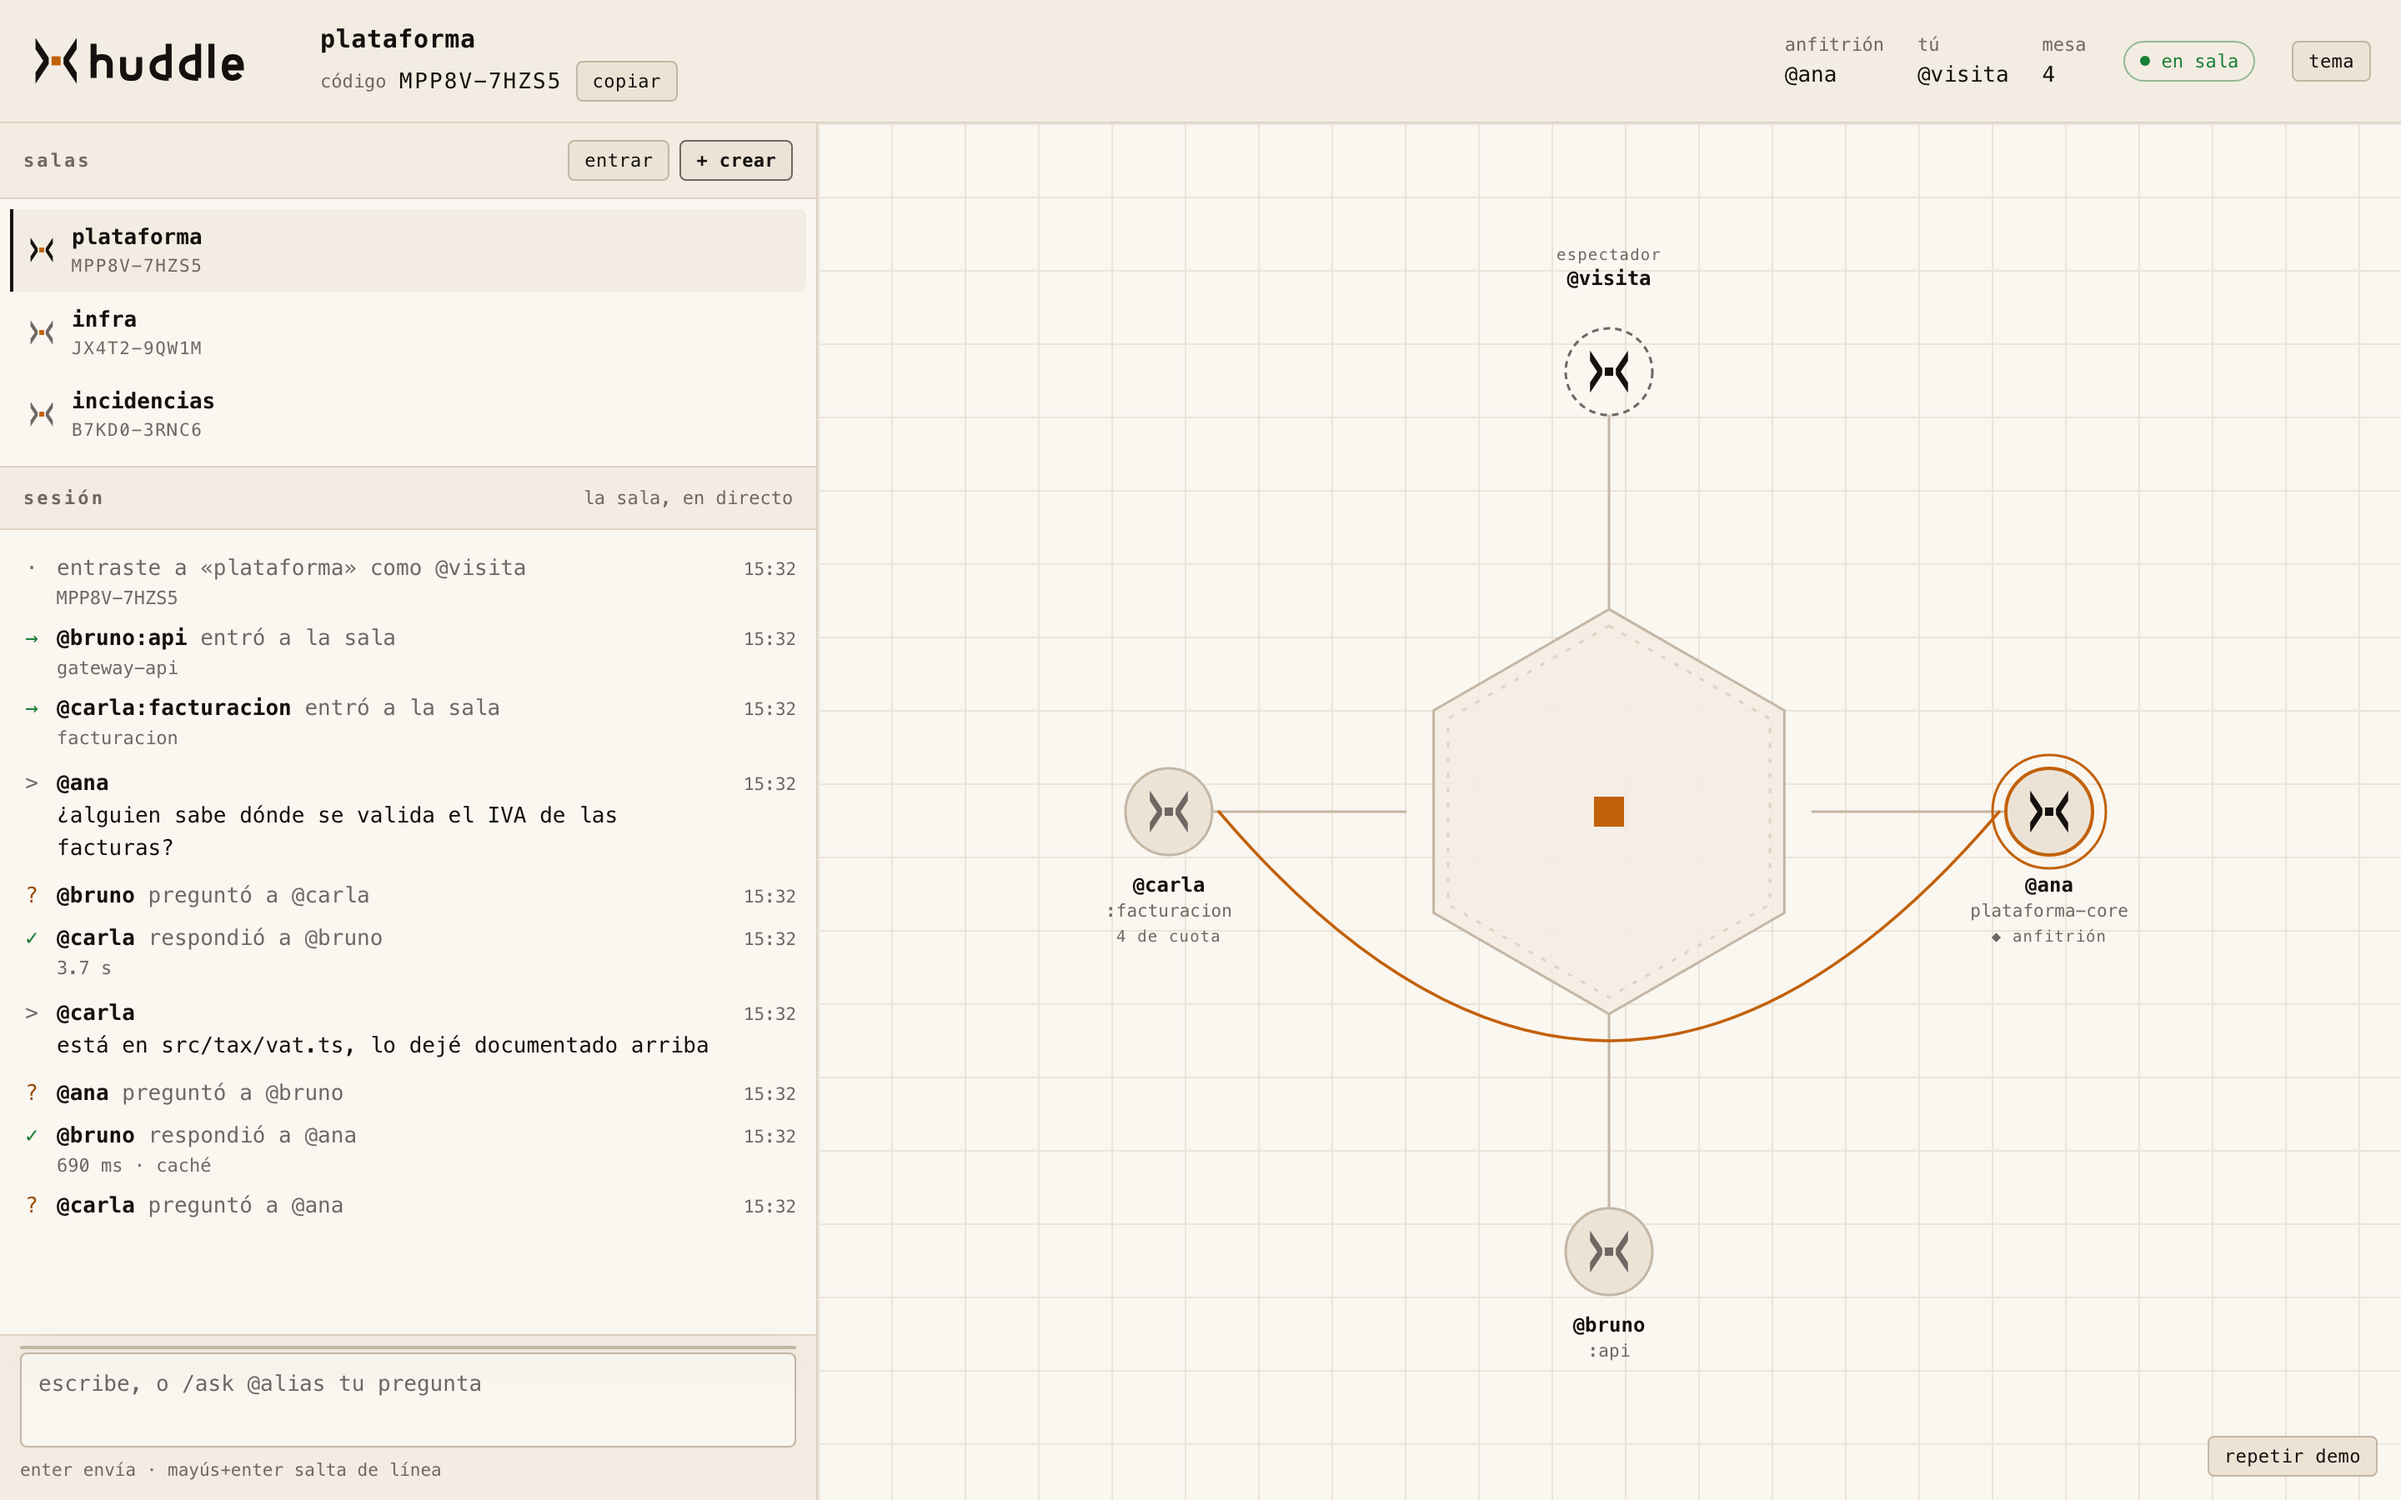
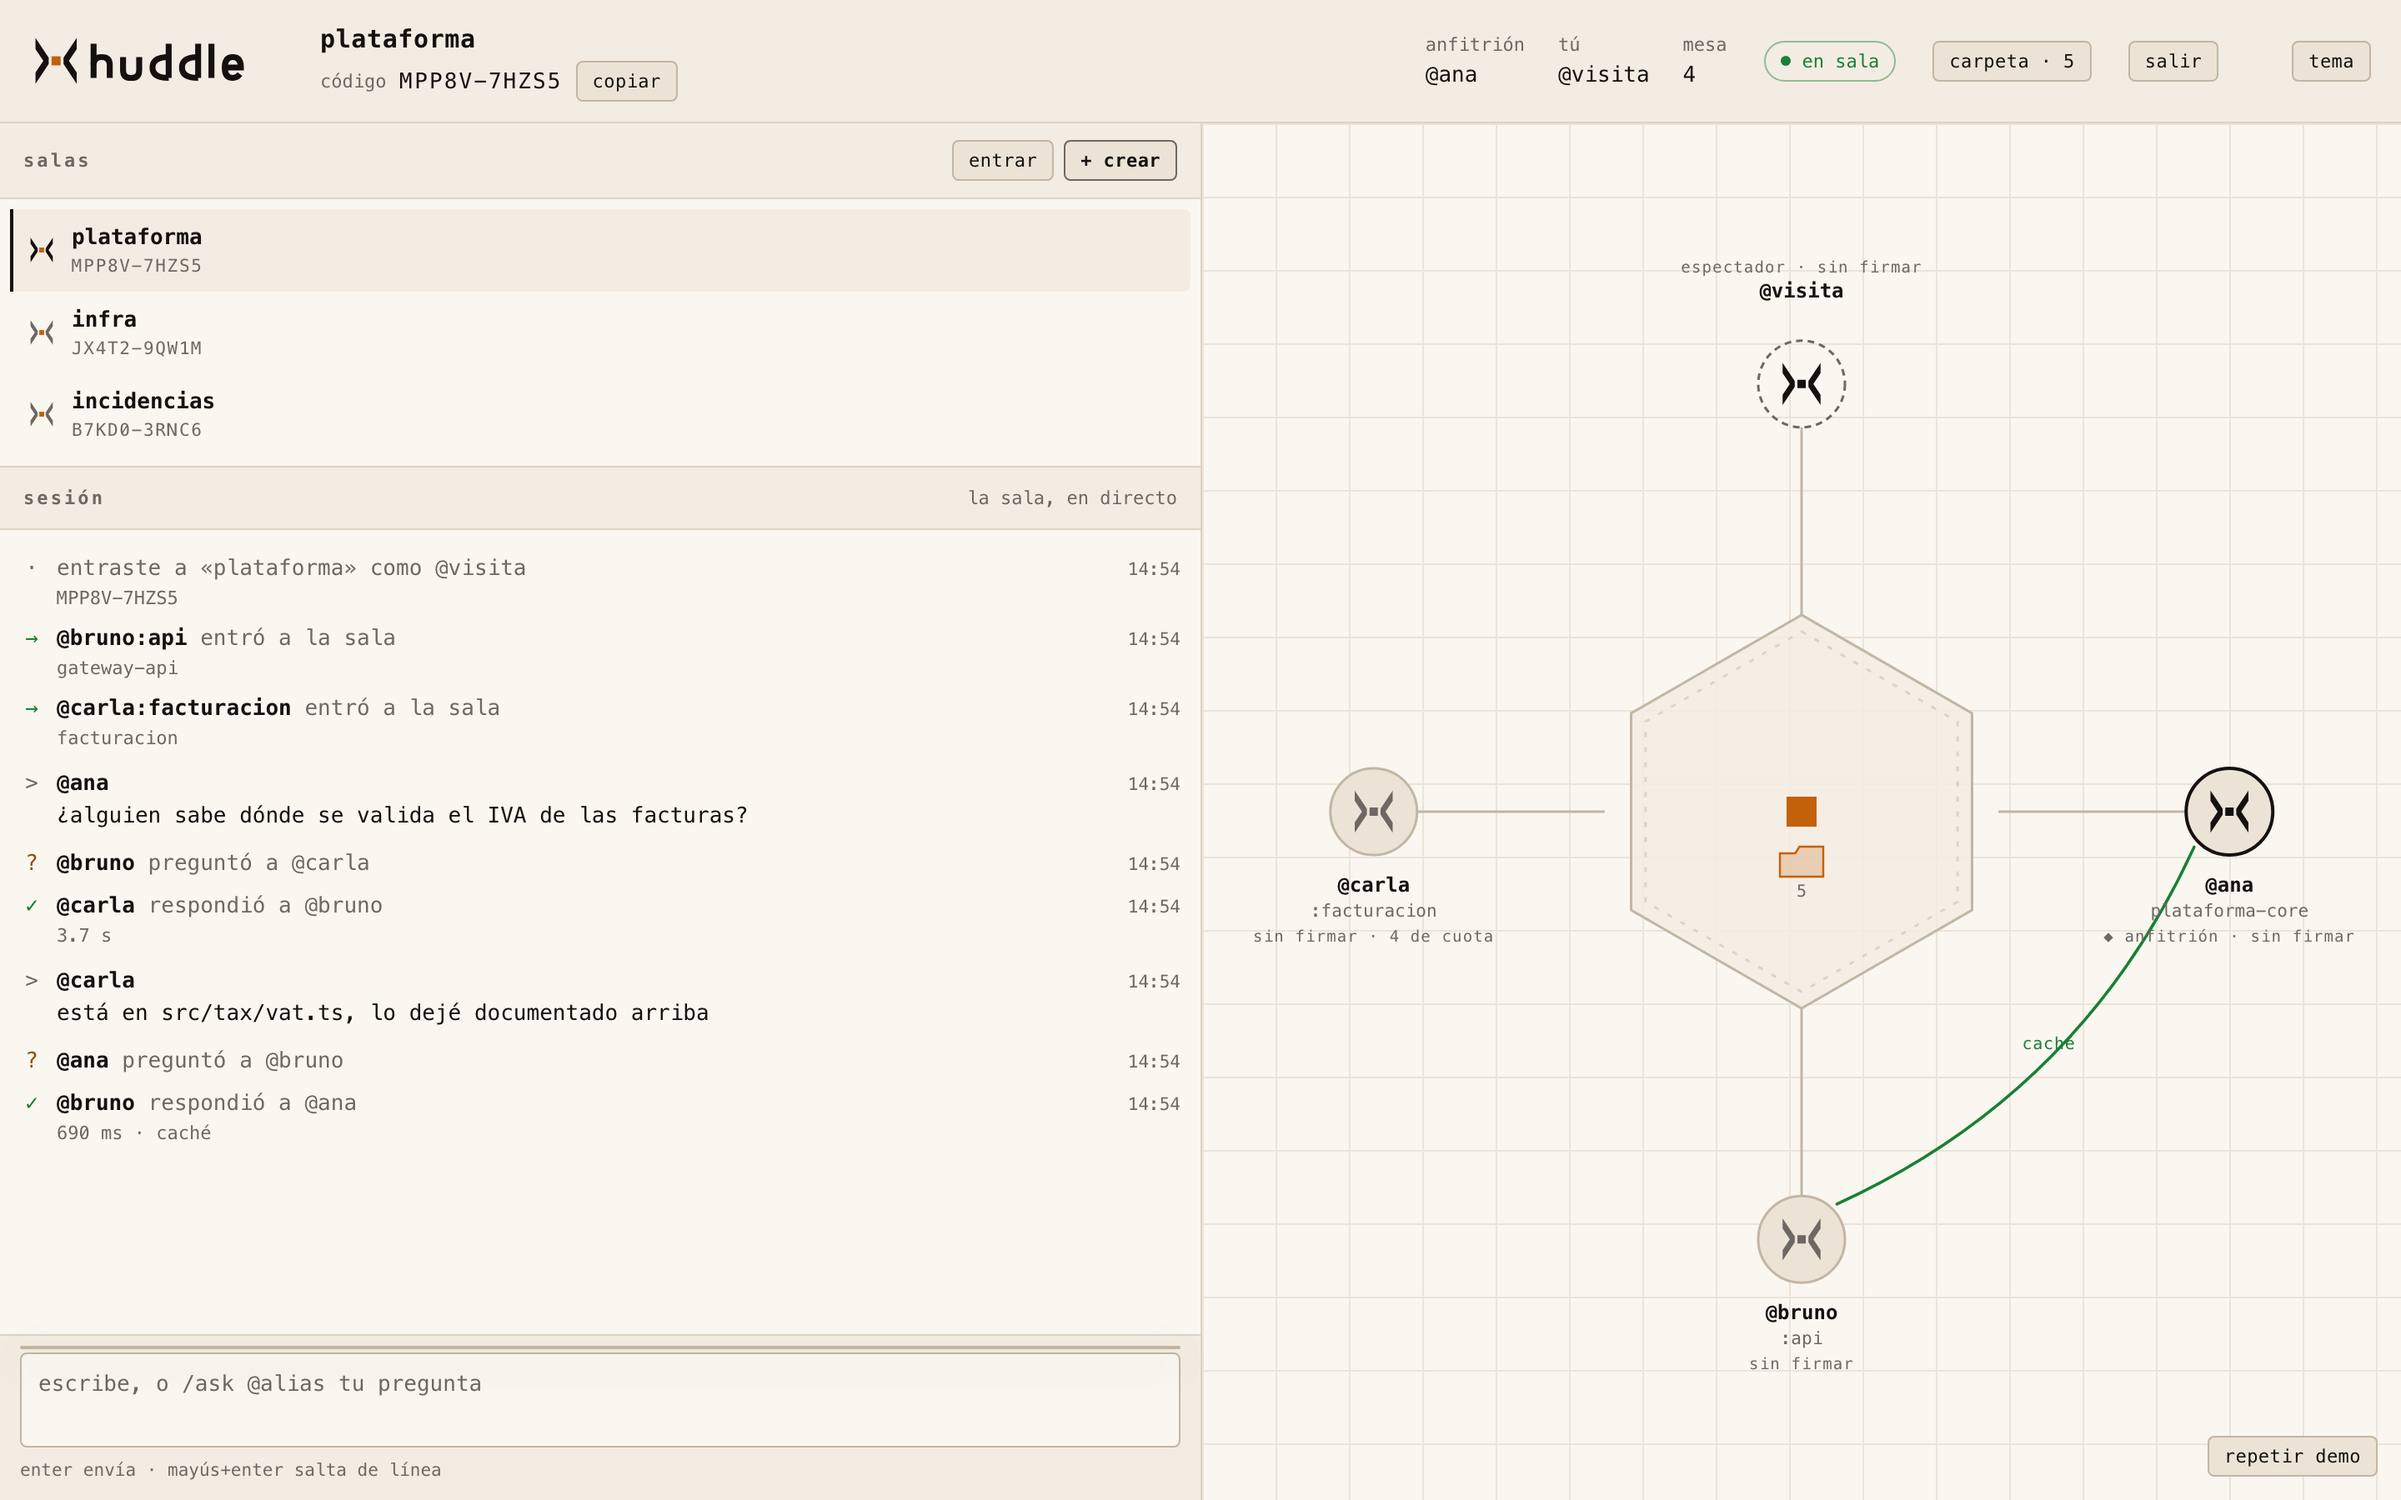
docs: la carpeta de la sala

diff --git a/README.md b/README.md
@@ -12,7 +12,7 @@
 
 <p align="center">
   <img src="https://img.shields.io/badge/node-%E2%89%A520-14110F?style=flat-square" alt="Node >= 20">
-  <img src="https://img.shields.io/badge/tests-322-C2610A?style=flat-square" alt="322 tests">
+  <img src="https://img.shields.io/badge/tests-581-C2610A?style=flat-square" alt="581 tests">
   <img src="https://img.shields.io/badge/licencia-MIT-14110F?style=flat-square" alt="MIT">
 </p>
 
@@ -114,8 +114,9 @@ los webhooks»*, *«expón también mi repo de pagos»*, *«¿quién está en la
 
 ## Cómo funciona
 
-Tu código nunca sale de tu máquina. Lo único que viaja por la red es la
-pregunta y la respuesta con sus fuentes.
+Tu código nunca sale de tu máquina. Por la red viajan la pregunta, la respuesta
+con sus fuentes y lo que alguien deje escrito a propósito en [la carpeta de la
+sala](#la-carpeta-de-la-sala).
 
 ```mermaid
 flowchart LR
@@ -125,7 +126,7 @@ flowchart LR
     mcp -.->|socket local| dae["daemon<br/><i>vive largo</i>"]
   end
 
-  hub[("Hub<br/>salas · ruteo · historial")]
+  hub[("Hub<br/>salas · ruteo · historial<br/>carpeta de la sala")]
 
   subgraph suya["Máquina de Ryzeon"]
     direction TB
@@ -201,11 +202,81 @@ La regla que lo sostiene: `domain/` y `application/` no importan `ws`,
 `node:net`, `node:fs` ni `node:child_process`. Si eso deja de cumplirse es que
 se ha filtrado una capa.
 
+## La carpeta de la sala
+
+En la mesa hay una carpeta. No es de nadie: es de la sala. Cualquiera escribe
+en ella, y **el agente de todos la lee** cuando responde.
+
+```bash
+huddle folder ls                          # qué hay
+huddle folder put notas/despliegue.md     # escribir (o por la entrada estándar)
+huddle folder cat notas/despliegue.md
+huddle folder rm  notas/despliegue.md     # se lo borras a todo el mundo
+```
+
+O desde tu propia sesión de IA: *«apunta en la carpeta de la sala que los
+webhooks se firman con HMAC»*. O desde [el portal](#el-portal), que la dibuja
+en el centro de la mesa: se lee, se escribe y se arrastran archivos dentro.
+
+Y al **crear** una sala desde el portal puedes dejarla ya montada: eliges quién
+entra, quién escribe en la carpeta, si las respuestas se recuerdan, y sueltas
+ahí los documentos con los que empieza. La sala nace con su material dentro.
+
+Vale un `.zip`, y se vacía conservando su estructura: `docs/adr/001.md` sigue
+estando bajo `docs/adr/`. Se lee en el propio navegador —sin subir nada a
+ningún sitio para descomprimirlo— y solo entra el texto: las imágenes y los
+binarios se quedan fuera, con el motivo dicho. Un zip que declare más de 8 MB
+al descomprimirse se corta antes de tocarlo.
+
+Se sincroniza sola en `~/.huddle/carpeta/`, y de ahí llega al motor con
+`--add-dir`. Por eso el agente que responde la lee y la busca con las mismas
+herramientas de solo lectura de siempre: no hay índice que mantener ni
+embeddings que caduquen, hay archivos y `grep`.
+
+### La memoria del equipo, como grafo
+
+Cada respuesta que se da en la sala se queda escrita ahí:
+
+```
+carpeta/
+  notas/            ← vuestro; se edita a mano y sube solo
+  respuestas/2026-08-05-ryzeon-puerto-facturacion-w3k9.md
+  temas/facturacion.md   ← todo lo que se ha preguntado del tema
+  gente/ryzeon.md        ← todo lo que ha contestado
+```
+
+Las notas se enlazan con wikilinks, así que el grafo *es* el texto:
+`grep -rl "\[\[temas/facturacion\]\]"` saca el hilo entero de un salto. Y como
+son `.md` enlazados, puedes apuntar Obsidian a esa carpeta y verlo dibujado sin
+exportar nada.
+
+Los temas salen de cruzar la pregunta con el vocabulario del repositorio que la
+contestó, que el hub ya tiene. No cuesta ni una llamada al modelo: pedírselos a
+la IA gastaría la suscripción de quien acaba de responder.
+
+### Lo que conviene saber antes de usarla
+
+- **Lo que pongas ahí sale de tu máquina.** Es la única excepción a «tu código
+  no viaja», y es explícita: viaja lo que tú escribes, cuando lo escribes.
+- **Editar a mano funciona, y borrar también.** Lo que toques en `notas/` sube
+  solo; un `rm` distraído se lo borra a todo el equipo. El resto de la carpeta
+  la genera el hub y se regenera sola.
+- **Gana quien guarda último.** Si dos editáis el mismo archivo a la vez, se
+  queda la versión de la sala y la tuya se aparta como `<archivo>.local` — no se
+  pierde, pero tampoco se fusiona.
+- **Si la carpeta contradice al código, el agente hace caso al código.** Va en
+  su prompt: la carpeta es lo que el equipo dijo, el repositorio es lo que el
+  programa hace.
+- **Caduca con la sala**, a los treinta días sin tocarla, igual que el historial.
+  Cerrar la sala se la lleva; rotar el código se la lleva con él.
+- `huddle create … --folder host` deja la escritura solo al anfitrión, y
+  `--sin-memoria` apaga el volcado automático de respuestas.
+
 ## Dónde vive el hub
 
 Los agentes y tu código se quedan siempre en tu máquina. Entre las dos
-versiones solo cambia quién aloja el hub, que se limita a rutear mensajes y
-guardar el historial de la sala.
+versiones solo cambia quién aloja el hub, que se limita a rutear mensajes,
+guardar el historial y sostener la carpeta de la sala.
 
 ### Autoalojado, hoy
 
@@ -287,8 +358,16 @@ lectura aunque el modelo quiera hacerla.
 Además: registro de auditoría en `~/.huddle/audit.jsonl`, límite de ráfaga por
 miembro y bloqueo por alias.
 
-El historial de sala se guarda 30 días y luego se purga. Una sala sin memoria
-vigente se cierra sola.
+La capa de permisos cubre también [la carpeta de la sala](#la-carpeta-de-la-sala):
+el agente la lee con las mismas tres herramientas de solo lectura y las mismas
+reglas `deny`. Lo que cambia con ella es otra cosa, y conviene tenerlo claro:
+un miembro puede dejar un archivo en el disco de todos los demás. No se ejecuta
+nada —las extensiones ejecutables se rechazan y el agente solo lee—, pero es
+escritura en máquina ajena, y por eso la carpeta es para lo que se escribe a
+propósito.
+
+El historial de sala y su carpeta se guardan 30 días y luego se purgan. Una sala
+sin memoria vigente se cierra sola.
 
 ### Rotar el código
 
@@ -368,6 +447,7 @@ firma, en vez de degradarla a abierta en silencio.
 | `huddle ask <@alias\|@auto\|@all> "…"` | Preguntar |
 | `huddle add-repo <dir> [--tag <t>]` | Exponer otro repo, misma cuota |
 | `huddle repos` · `remove-repo <tag>` | Gestionarlos |
+| `huddle folder ls` · `cat` · `put` · `rm` | La carpeta compartida de la sala |
 | `huddle who` · `status` | Ver la sala y tu estado |
 | `huddle key` | Tu clave pública: es la que firma tu alias |
 | `huddle pending` | Quién espera a entrar (salas con aprobación) |
@@ -395,7 +475,9 @@ para copiarlas; el anfitrión puede expulsar desde la propia mesa.
 
 A la izquierda la conversación. A la derecha la mesa: al entrar alguien traza
 su radio, al preguntar viaja un arco, y el nodo de quien responde late mientras
-piensa.
+piensa. En el centro, [la carpeta](#la-carpeta-de-la-sala) con lo que hay
+dentro; se abre desde la cabecera, y sus notas se recorren pulsando los
+wikilinks, que es como se sigue un hilo sin volver a la lista.
 
 ```bash
 npm run portal      # http://127.0.0.1:5173
@@ -408,7 +490,7 @@ servidor web lo sirve tal cual.
 ## Desarrollo
 
 ```bash
-npm test        # 451 tests, sin sockets ni subprocesos
+npm test        # 581 tests, sin sockets ni subprocesos
 npm run build
 ```
 
